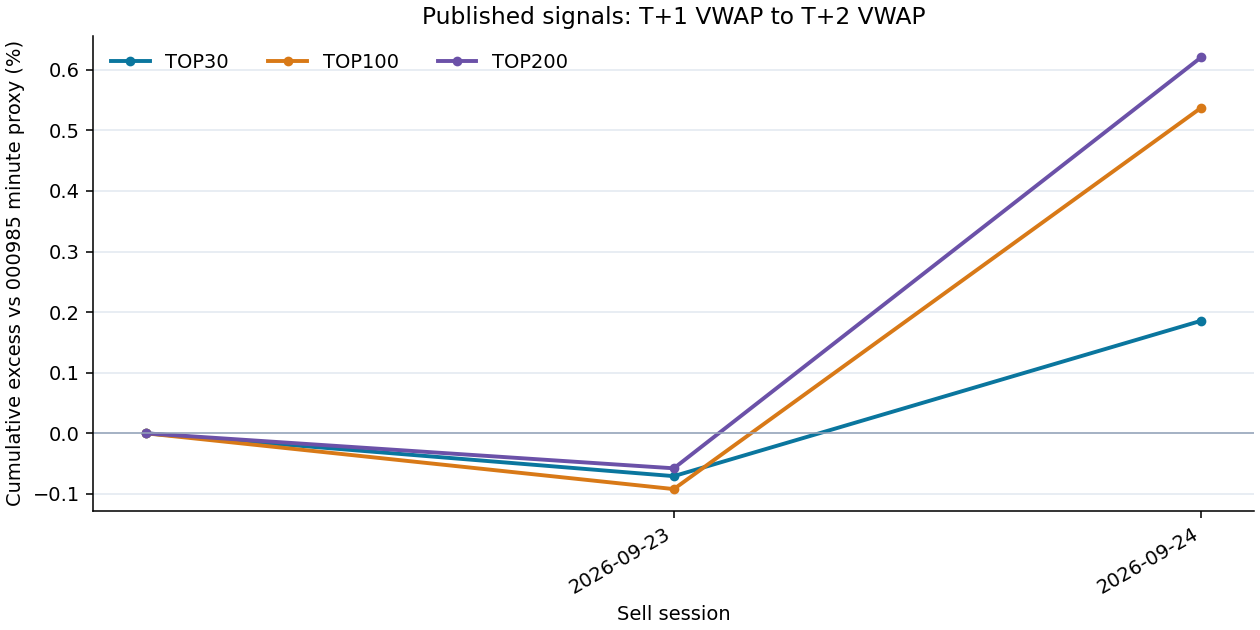
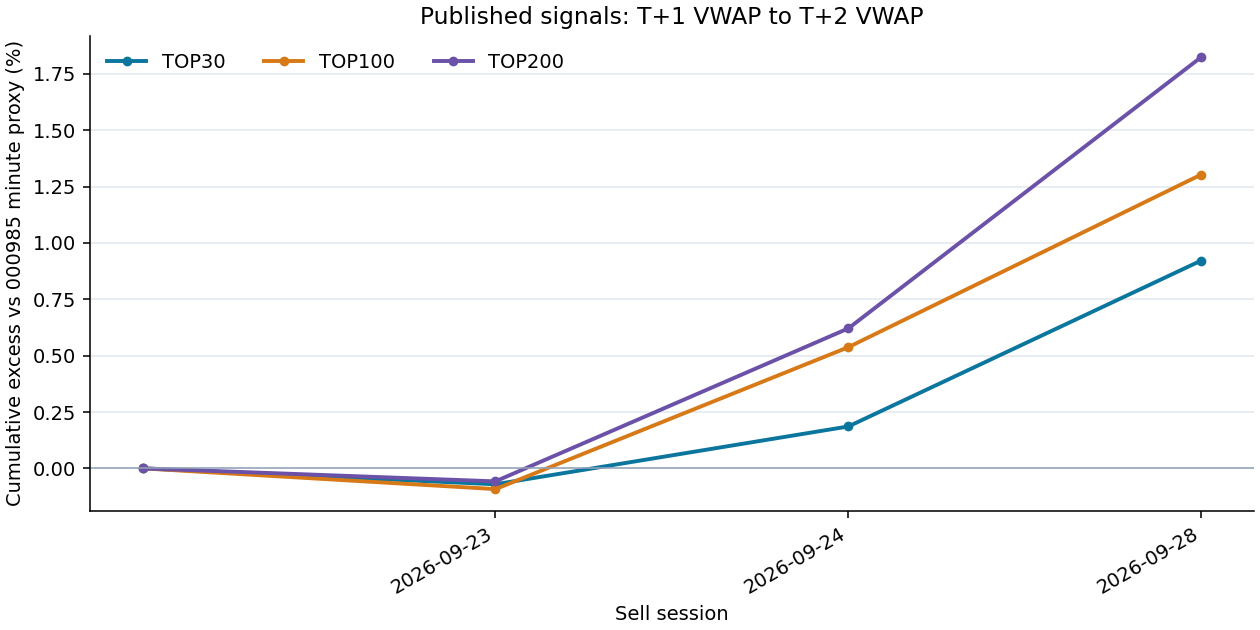
Update published signal performance through 2026-09-28

diff --git a/README.md b/README.md
@@ -17,13 +17,13 @@ CSV 编码为 UTF-8 BOM，按 `signal` 降序排列。
 <!-- PUBLIC_PERFORMANCE_START -->
 ## 已发布信号的历史表现
 
-仅统计本仓库 `signals/YYYY-MM-DD.csv` 已上传且买卖两日行情均完整的信号；截至 **2026-09-24**，共有 **2** 个已完成信号日，另有 **2** 个待结算或数据未齐。样本很短，暂无统计显著性结论。
+仅统计本仓库 `signals/YYYY-MM-DD.csv` 已上传且买卖两日行情均完整的信号；截至 **2026-09-28**，共有 **3** 个已完成信号日，另有 **2** 个待结算或数据未齐。样本很短，暂无统计显著性结论。
 
 | 组合 | 已完成信号日 | 组合累计收益 | 000985同期收益 | 累计超额 |
 |---|---:|---:|---:|---:|
-| TOP30 | 2 | -1.76% | -1.94% | +0.19% |
-| TOP100 | 2 | -1.41% | -1.94% | +0.54% |
-| TOP200 | 2 | -1.33% | -1.94% | +0.62% |
+| TOP30 | 3 | -3.89% | -4.77% | +0.92% |
+| TOP100 | 3 | -3.53% | -4.77% | +1.30% |
+| TOP200 | 3 | -3.03% | -4.77% | +1.82% |
 
 ![TOP30、TOP100、TOP200 累计超额净值](performance/excess_nav.png)
 
@@ -35,6 +35,7 @@ CSV 编码为 UTF-8 BOM，按 `signal` 降序排列。
 |---|---|---:|---:|---:|
 | 2026-09-21 | 2026-09-23 | -7.01 | -9.14 | -5.73 |
 | 2026-09-22 | 2026-09-24 | +25.36 | +62.25 | +67.07 |
+| 2026-09-23 | 2026-09-28 | +71.35 | +73.99 | +116.18 |
 
 ![TOP30、TOP100、TOP200 逐日超额](performance/daily_excess.png)
 
